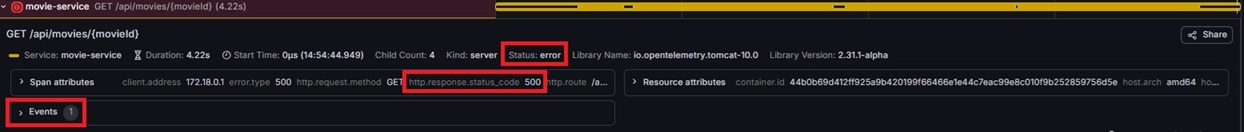
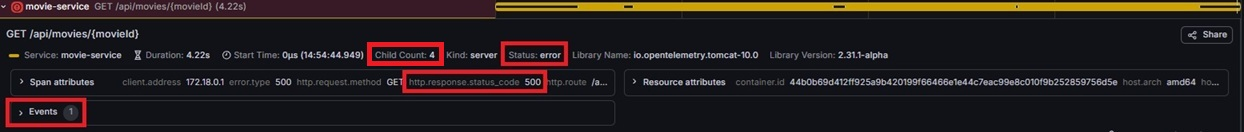
Updated distributed-tracing.md

Changed region(s): [[0.2749, 0.303, 0.3666, 0.5152]]

diff --git a/distributed-tracing.md b/distributed-tracing.md
@@ -64,6 +64,10 @@ In the trace details panel, Service & Operation section, we can tell that there 
 
 ![Garfana Explore - Trace - get movie](.images/garfana-trace-movie.jpg)
 
-Click on the `movie-service GET /api/movies/{movieId}` to drill into the details.
+Click on the `movie-service GET /api/movies/{movieId}` to drill into the details. From the details, we can tell that the API is returning a 500 server error status, it contains 4 child spans, and it has one event.
 
 ![Garfana Explore - Trace - get movie details](.images/garfana-trace-movie-details.jpg)
+
+Click on the `Span attributes` and we can verify the url path (`/api/movies`) and path variable (`10`) that caused the server 500 error.
+
+![Garfana Explore - Trace - get movie - Span attributes](.images/garfana-trace-movie-span-attributes.jpg)
